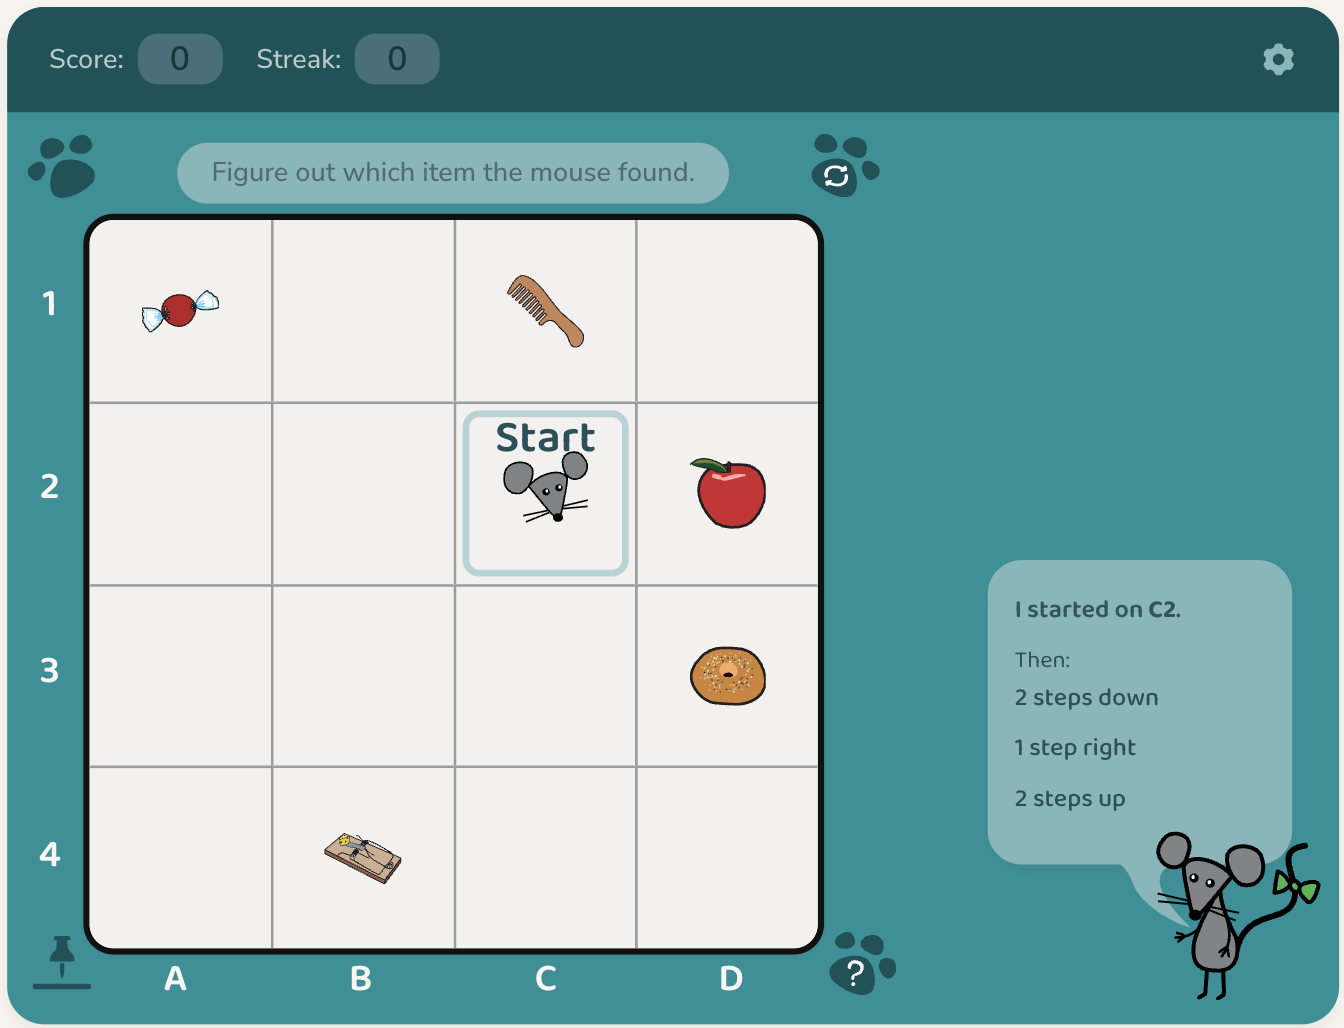
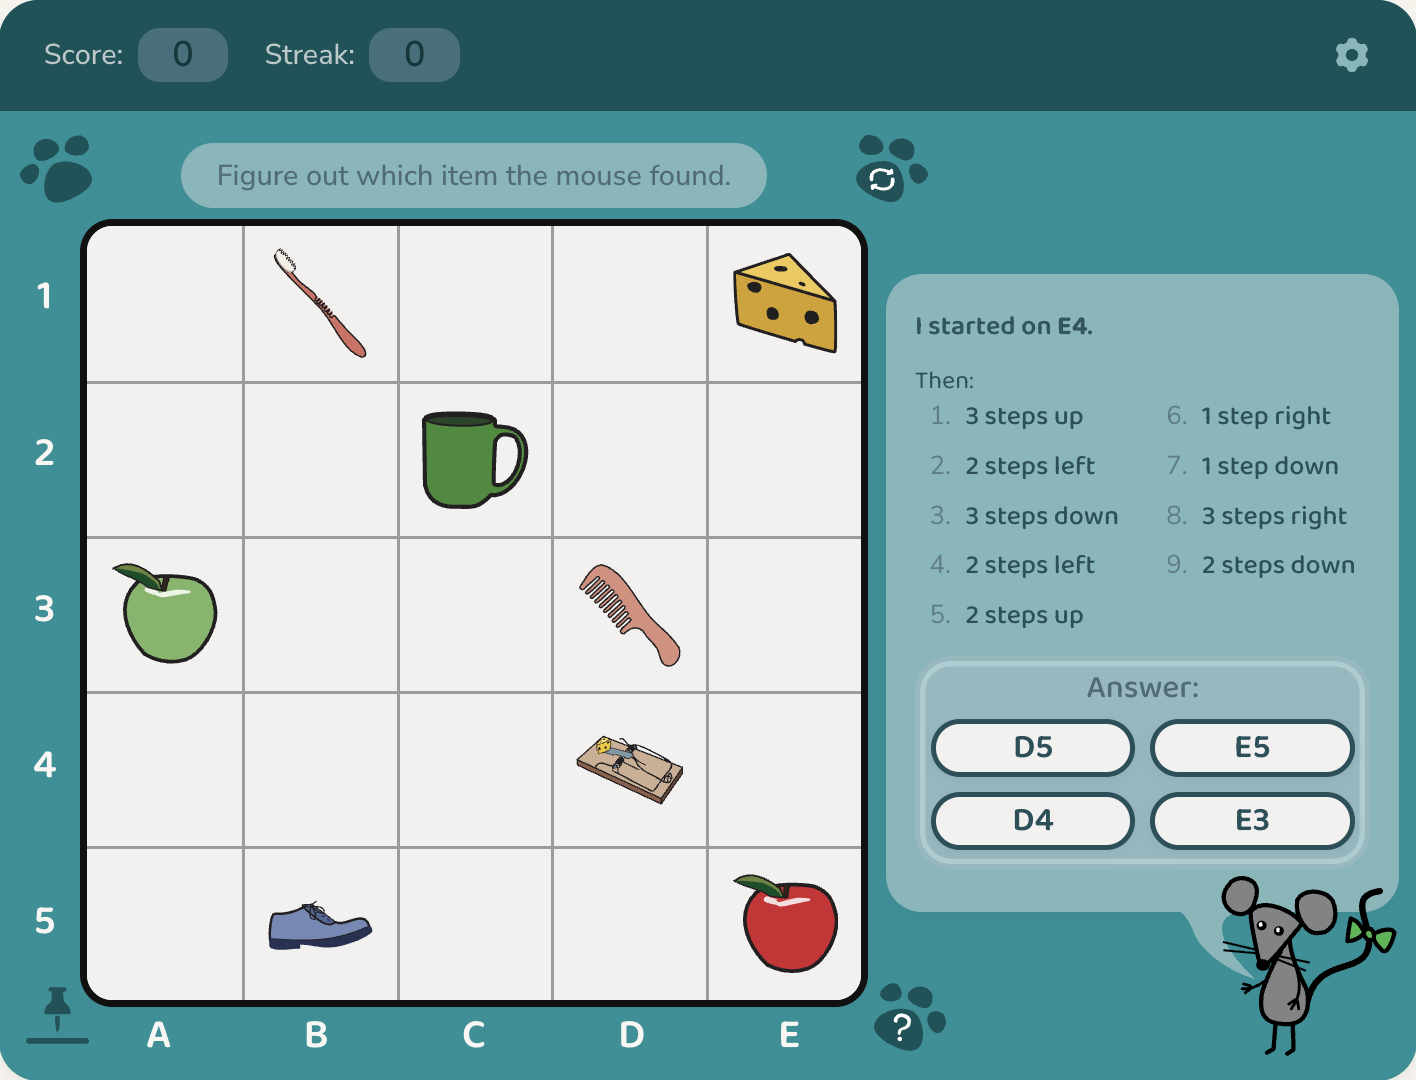
Refine hide squeak game card previews

diff --git a/src/components/games/GamePreview.tsx b/src/components/games/GamePreview.tsx
@@ -1,43 +1,115 @@
 const GAME_PREVIEW_VARIANT_STYLES = {
   landscape: {
     frame: 'aspect-[4/3] p-0',
-    image: 'h-full w-full rounded-[16px] object-cover object-center',
+    stackedFrame: 'aspect-[4/6.25] p-0',
+    image: 'h-full w-full rounded-[16px] object-cover',
+    stackFrame: 'grid h-full w-full grid-rows-[minmax(0,1.5fr)_minmax(0,1.5fr)] gap-1 p-1',
+    stackImage: 'h-full w-full rounded-[14px] object-cover',
   },
   portrait: {
     frame: 'aspect-[798/1203] p-0',
-    image: 'h-full w-full rounded-[16px] object-cover object-center',
+    stackedFrame: '',
+    image: 'h-full w-full rounded-[16px] object-cover',
+    stackFrame: '',
+    stackImage: '',
   },
   square: {
     frame: 'aspect-square p-3',
-    image: 'max-h-full max-w-full object-contain object-center',
+    stackedFrame: '',
+    image: 'max-h-full max-w-full object-contain',
+    stackFrame: '',
+    stackImage: '',
   },
 } as const
 
 type GamePreviewProps = {
   alt: string
   className?: string
+  imageFit?: 'contain' | 'cover'
+  imagePosition?: string
+  secondaryAlt?: string
+  secondaryImageFit?: 'contain' | 'cover'
+  secondaryImagePosition?: string
+  secondarySrc?: string
   src: string
   variant: keyof typeof GAME_PREVIEW_VARIANT_STYLES
 }
 
-export function GamePreview({ alt, className = '', src, variant }: GamePreviewProps) {
+export function GamePreview({
+  alt,
+  className = '',
+  imageFit = 'cover',
+  imagePosition,
+  secondaryAlt,
+  secondaryImageFit = 'cover',
+  secondaryImagePosition,
+  secondarySrc,
+  src,
+  variant,
+}: GamePreviewProps) {
   const variantStyles = GAME_PREVIEW_VARIANT_STYLES[variant]
+  const shouldStackPreviews =
+    variant === 'landscape' && Boolean(secondarySrc && secondaryAlt)
 
   return (
     <div
       className={[
         'flex items-center justify-center overflow-hidden rounded-[20px] border border-border/70 bg-[color:color-mix(in_srgb,var(--surface)_90%,white)]',
-        variantStyles.frame,
+        shouldStackPreviews ? variantStyles.stackedFrame : variantStyles.frame,
         className,
       ]
         .join(' ')
         .trim()}
     >
-      <img
-        src={src}
-        alt={alt}
-        className={variantStyles.image}
-      />
+      {shouldStackPreviews ? (
+        <div className={variantStyles.stackFrame}>
+          <img
+            src={src}
+            alt={alt}
+            className={[
+              variantStyles.stackImage,
+              imageFit === 'contain' ? 'bg-[color:color-mix(in_srgb,var(--surface)_94%,white)]' : '',
+            ]
+              .join(' ')
+              .trim()}
+            style={{
+              objectFit: imageFit,
+              objectPosition: imagePosition ?? 'center',
+            }}
+          />
+          <img
+            src={secondarySrc}
+            alt={secondaryAlt}
+            className={[
+              variantStyles.stackImage,
+              secondaryImageFit === 'contain'
+                ? 'bg-[color:color-mix(in_srgb,var(--surface)_94%,white)]'
+                : '',
+            ]
+              .join(' ')
+              .trim()}
+            style={{
+              objectFit: secondaryImageFit,
+              objectPosition: secondaryImagePosition ?? 'center',
+            }}
+          />
+        </div>
+      ) : (
+        <img
+          src={src}
+          alt={alt}
+          className={[
+            variantStyles.image,
+            imageFit === 'contain' ? 'bg-[color:color-mix(in_srgb,var(--surface)_94%,white)]' : '',
+          ]
+            .join(' ')
+            .trim()}
+          style={{
+            objectFit: imageFit,
+            objectPosition: imagePosition ?? 'center',
+          }}
+        />
+      )}
     </div>
   )
 }

diff --git a/src/data/games.ts b/src/data/games.ts
@@ -1,5 +1,6 @@
 import pawsThinkGamePreview from '../assets/PawsThinkGamePreview.png'
 import hideSqueakGamePreview from '../assets/HideSqueakGamePreview.png'
+import hideSqueakSettingsPreview from '../assets/HideSqueakSettings.png'
 
 export type Game = {
   detailDescription: string
@@ -7,6 +8,12 @@ export type Game = {
   eyebrow?: string
   previewAlt: string
   previewImage: string
+  previewImageFit?: 'contain' | 'cover'
+  previewImagePosition?: string
+  previewSecondaryAlt?: string
+  previewSecondaryImage?: string
+  previewSecondaryImageFit?: 'contain' | 'cover'
+  previewSecondaryImagePosition?: string
   previewVariant: 'portrait' | 'landscape' | 'square'
   slug: string
   summary: string
@@ -20,6 +27,8 @@ export const games: Game[] = [
     title: 'Paws and Think',
     previewImage: pawsThinkGamePreview,
     previewAlt: 'Paws and Think game preview',
+    previewImageFit: 'cover',
+    previewImagePosition: 'center top',
     previewVariant: 'portrait',
     summary:
       'A quick deduction game built around color logic, visual pattern recognition, and a race against the clock.',
@@ -35,15 +44,21 @@ export const games: Game[] = [
     title: 'Hide & Squeak',
     previewImage: hideSqueakGamePreview,
     previewAlt: 'Hide & Squeak game preview',
+    previewImageFit: 'contain',
+    previewImagePosition: 'center top',
+    previewSecondaryImage: hideSqueakSettingsPreview,
+    previewSecondaryAlt: 'Hide & Squeak settings and board layout',
+    previewSecondaryImageFit: 'contain',
+    previewSecondaryImagePosition: 'center top',
     previewVariant: 'landscape',
     summary:
-      'A coordinate-tracking puzzle where players follow movement commands across a grid and identify the mouse’s final destination.',
+      'A spatial reasoning puzzle where players follow movement commands across a grid and identify the mouse’s final destination.',
     description:
-      'The game blends readable board logic with multiple input modes, hint support, previous-round review, and a timed mode that rewards fast, accurate path tracking.',
+      'The game blends procedural round generation, readable board logic, multiple input modes, hint support, previous-round review, and a timed mode that rewards accurate path tracking.',
     tags: ['React', 'TypeScript', 'Puzzle', 'Accessibility'],
     eyebrow: 'New game',
     detailDescription:
-      'Hide & Squeak is a grid puzzle about tracking a hidden mouse through a generated command sequence. Depending on difficulty, players either click the final board cell, choose from plausible coordinate options, or type the destination directly using A1-style labels.',
+      'Hide & Squeak is a grid puzzle about tracking a hidden mouse through a generated command sequence. Depending on difficulty, players either click the final board cell, choose from plausible coordinate options, or type the destination directly using A1-style labels, while the board generation system balances item density, distractor quality, and visual variety.',
   },
 ]
 

diff --git a/src/components/games/GameCard.tsx b/src/components/games/GameCard.tsx
@@ -17,6 +17,12 @@ export function GameCard({ game }: GameCardProps) {
           <GamePreview
             src={game.previewImage}
             alt={game.previewAlt}
+            imageFit={game.previewImageFit}
+            imagePosition={game.previewImagePosition}
+            secondaryAlt={game.previewSecondaryAlt}
+            secondaryImageFit={game.previewSecondaryImageFit}
+            secondaryImagePosition={game.previewSecondaryImagePosition}
+            secondarySrc={game.previewSecondaryImage}
             variant={game.previewVariant}
           />
         </div>
